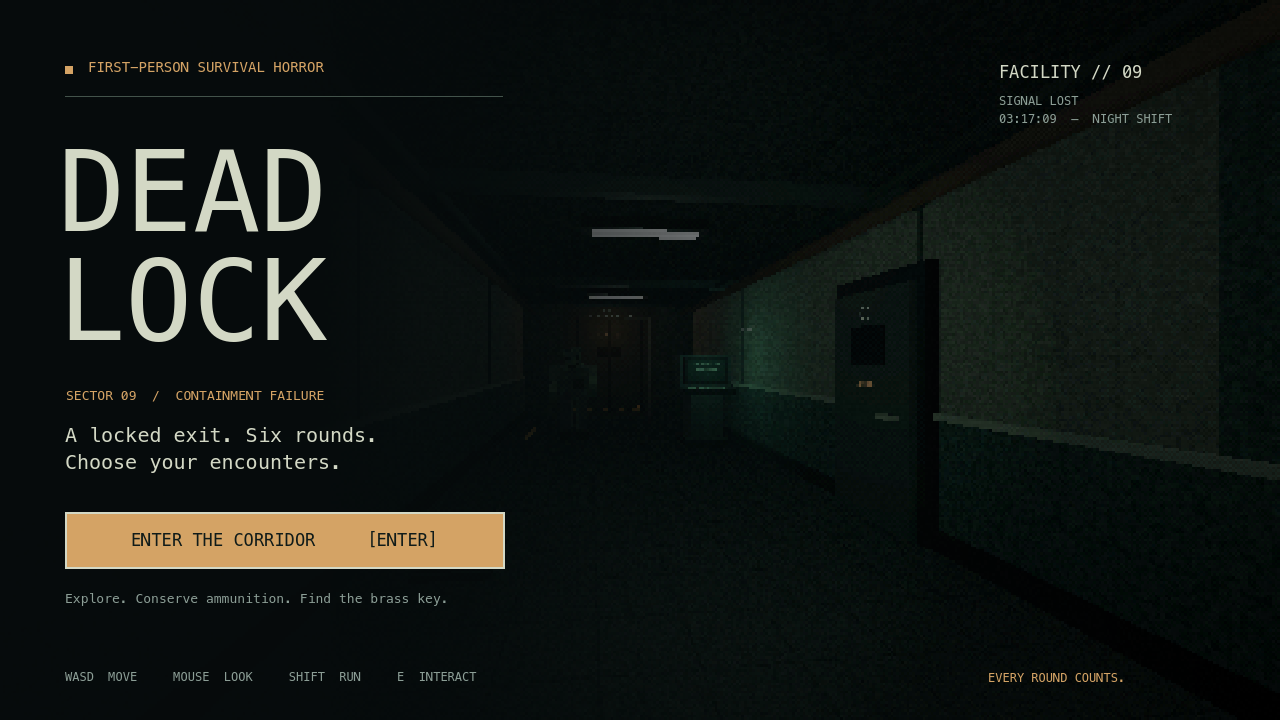
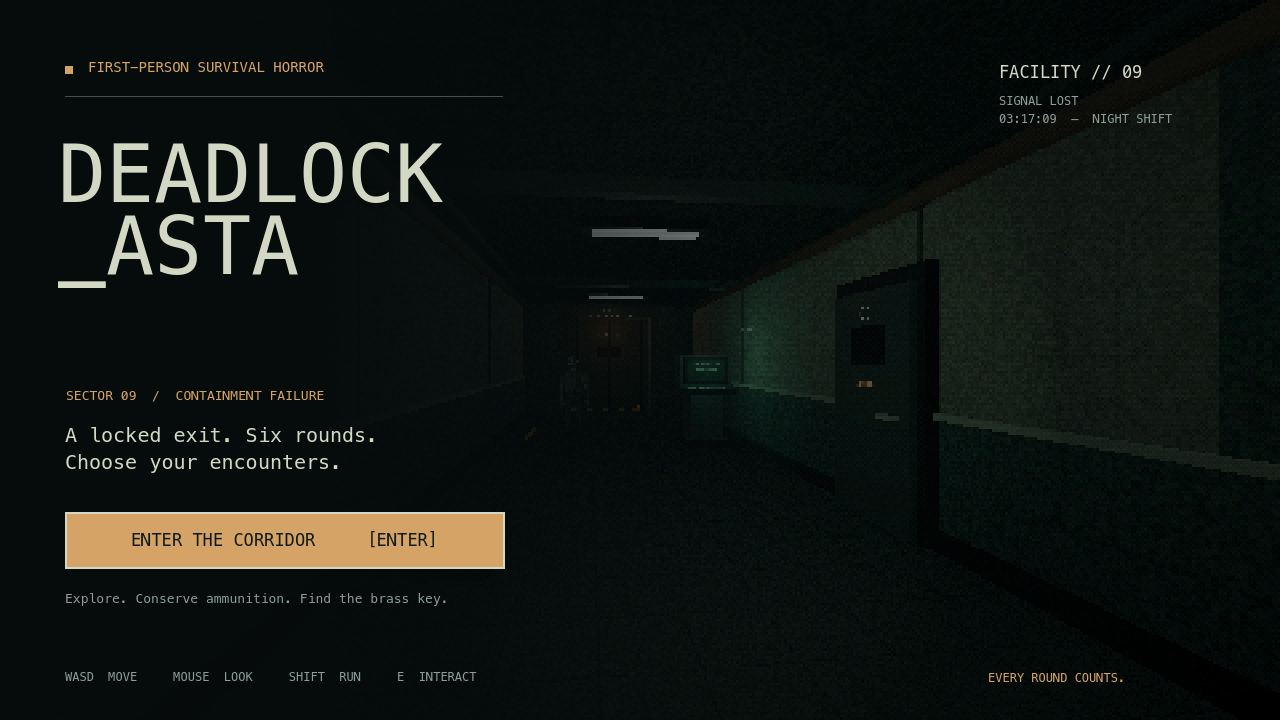
Rename project to deadlock_asta for the Astra experiment

Changed region(s): [[0.0312, 0.1833, 0.3438, 0.4889]]

diff --git a/assets/audio/generate_audio.py b/assets/audio/generate_audio.py
@@ -1,4 +1,4 @@
-"""Regenerate DEADLOCK's original synthesized sound effects (Python stdlib only)."""
+"""Regenerate deadlock_asta's original synthesized sound effects (Python stdlib only)."""
 
 from pathlib import Path
 import math

diff --git a/docs/VALIDATION.md b/docs/VALIDATION.md
@@ -33,6 +33,8 @@ The rendered handgun/corridor, health/ammunition HUD, and inventory were inspect
 
 The **humanoid zombie model update** was also checked on 2026-10-14: all **68 checks passed again in both headless and rendered runs**. Front, three-quarter walking, attack, and collapsed poses were rendered and visually inspected in the corridor. The new anatomy and animation live in `scripts/zombie_model.gd`; the original collision capsule, damage, attack timing, and pursuit rules are retained. See [the updated zombie preview](zombie.png).
 
+On **2026-10-15**, the project was renamed to **deadlock_asta**. The renamed project launched in both headless and rendered modes; the title screen was captured and visually checked for text fit at 1280 × 720, and [title.png](title.png) was refreshed. The rendered capture exited successfully without errors. This naming-only change did not repeat the full gameplay suite; the previous 68/68 results above remain the latest full integration run.
+
 ## Not verified in this pass
 
 - A human free-play/balance session, long-session comfort, and subjective sound mixing. Sound resources and playback code executed in the rendered run, but no listening-based assessment is claimed.

diff --git a/README.md b/README.md
@@ -1,4 +1,6 @@
-# DEADLOCK
+# deadlock_asta
+
+The Astra version of a game-building experiment comparing Astra and Opus using the same prompts. Repository: [c-auld/deadlock_asta](https://github.com/c-auld/deadlock_asta).
 
 A small PS1-inspired **first-person survival-horror prototype** in Godot. Explore the service corridor and two side rooms, conserve handgun ammunition, manage wounds, find the brass key, and unlock the exit. The original movement, low-resolution renderer, corridor, and atmospheric audio are reused.
 

diff --git a/CONTRIBUTING.md b/CONTRIBUTING.md
@@ -1,4 +1,4 @@
-# Working on DEADLOCK
+# Working on deadlock_asta
 
 ## Setup
 
